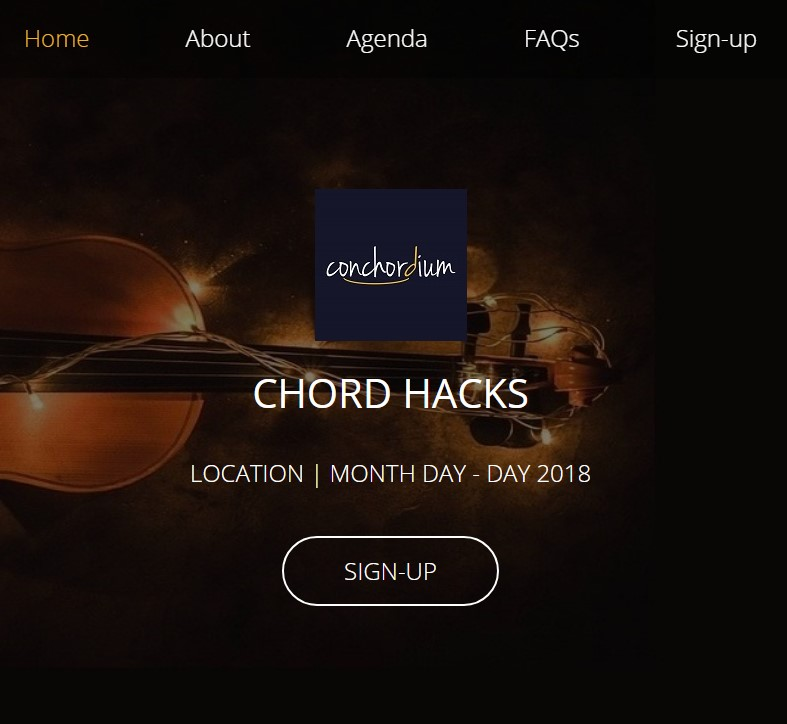
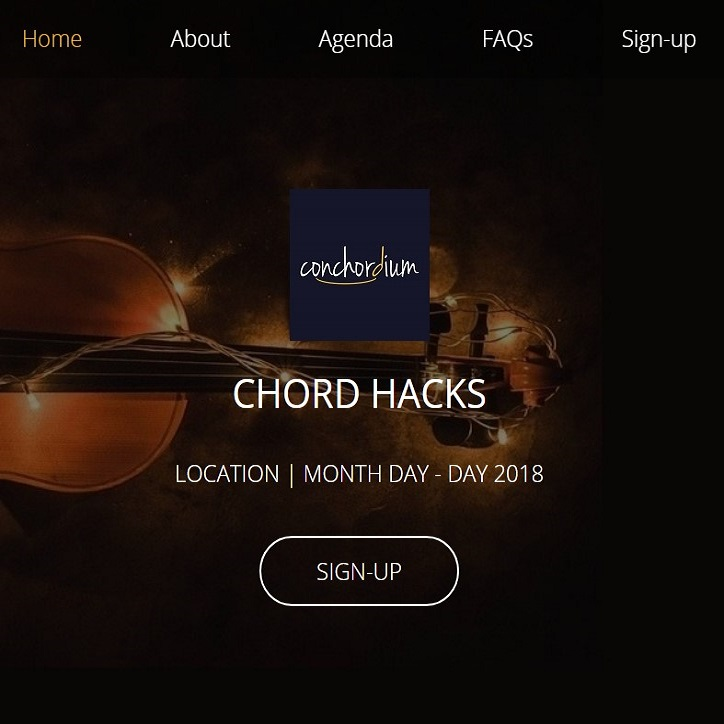
Resize Images and add UX Design

diff --git a/index.html b/index.html
@@ -141,6 +141,8 @@
                     
                         </div>
 
+						<iframe style="border: 1px solid rgba(0, 0, 0, 0.1);" width= "100%" height="450" src="https://www.figma.com/embed?embed_host=share&url=https%3A%2F%2Fwww.figma.com%2Fproto%2F2yZZqchvnBxMIzCP0HejDH%2FTO_DO-UX-Design%3Fnode-id%3D0%253A3%26frame-preset-name%3DAndroid%26scaling%3Dscale-down" allowfullscreen></iframe>
+
                     </div>
 
                 </div>

diff --git a/styles.css b/styles.css
@@ -649,13 +649,13 @@ footer{
         margin: .5rem .5rem;
     }
     .column1{
-        flex: 13%;
+        flex: 30%;
     }
     .column2{
-        flex: 25%;
+        flex: 30%;
     }
     .column3{
-        flex: 20%;
+        flex: 30%;
     }
     .item{
         padding: .25rem .8rem;
